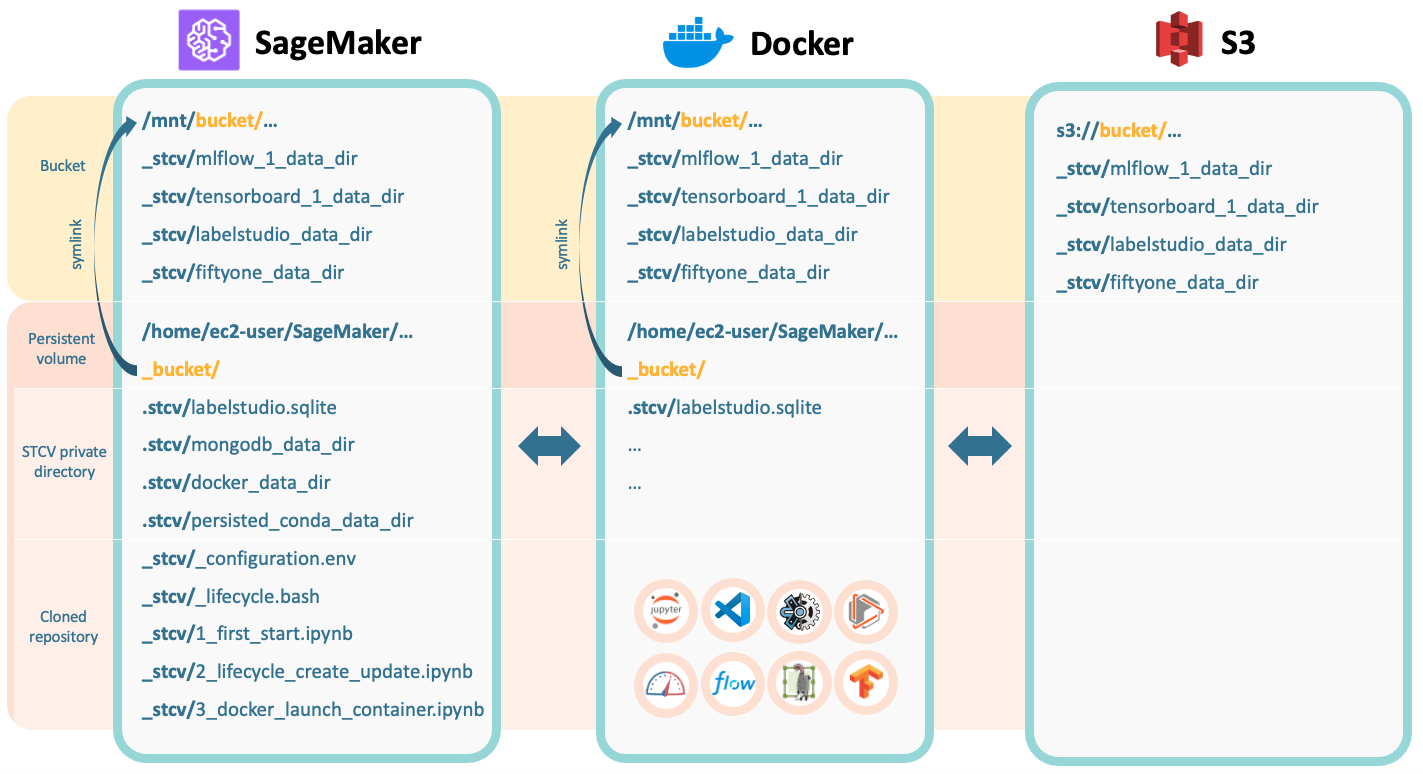
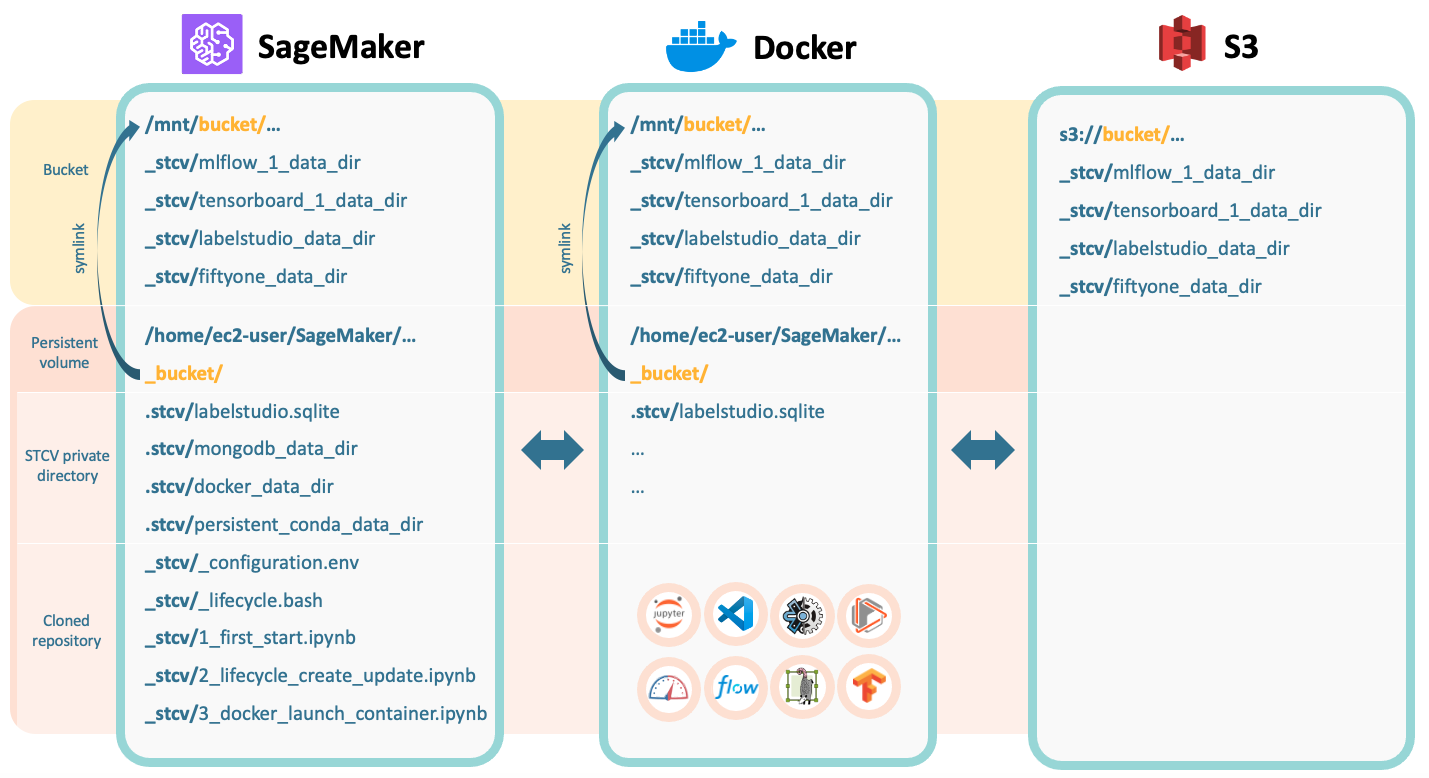
Fixed typos

diff --git a/README.md b/README.md
@@ -18,7 +18,7 @@
     - eZ Server Monitor
 
 
-## Instructions
+## Getting started
 
 1. Clone STCV repository
 ```bash
